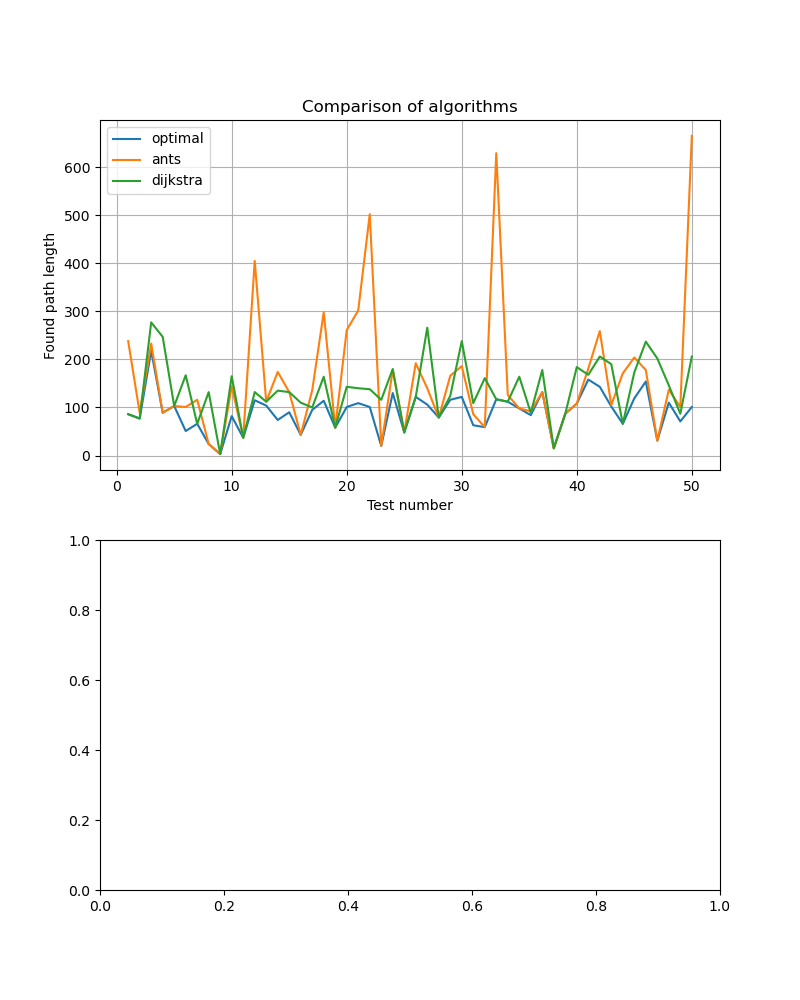
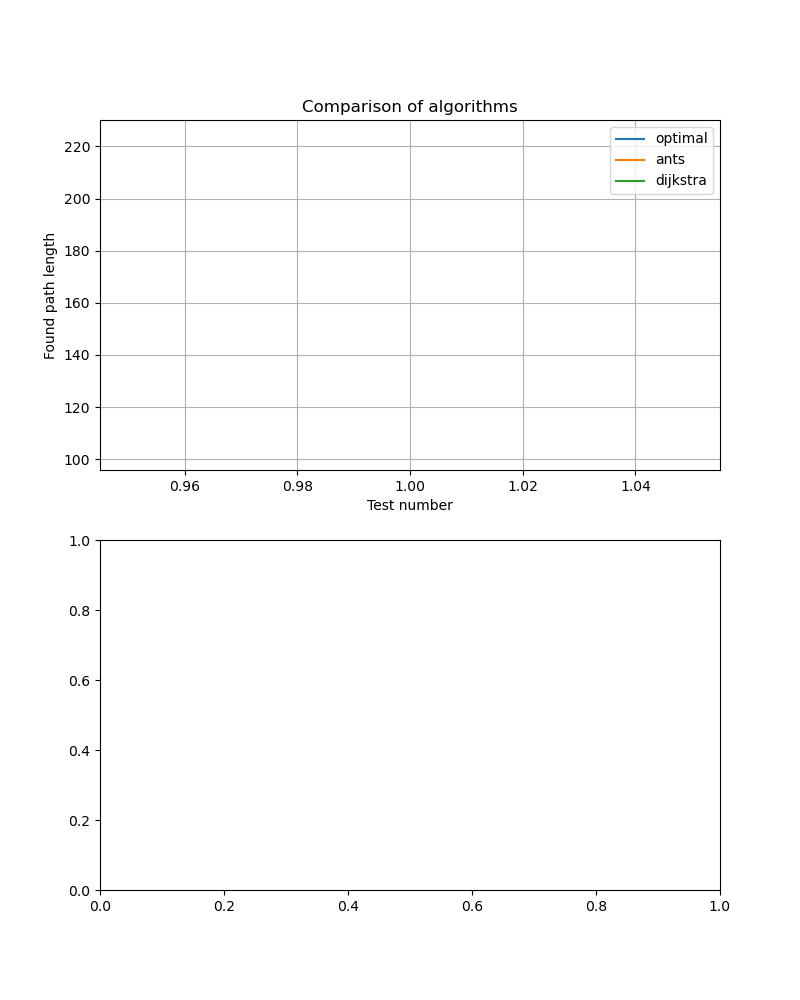
Fixed dijkstra algorithm to be optimal

diff --git a/dijkstry.py b/dijkstry.py
@@ -3,20 +3,49 @@ import networkx as nx
 import copy
 from loader import load_graph
 from matplotlib import pyplot as plt
-
+import math
 
 def path_from(G, node):
     graph = nx.Graph()
     graph.add_node(node)
 
+    path = [node]
+
     while G.nodes[node]['parent'] is not None:
         parent = G.nodes[node]['parent']
         graph.add_node(parent, parent=G.nodes[parent]['parent'], visited=False)
         graph.add_edge(parent, node)
+        path.append(parent)
         node = parent
 
     return graph
 
+
+def dijkstra(G, start_node, end_node):
+
+    q = [(0, start_node)]
+
+    reach_cost = {start_node: 0}
+
+    while len(q) > 0:
+        q.sort(key=lambda x: x[0])
+        (priority, node) = q.pop(0)
+
+        G.nodes[node]['visited'] = True
+        if node == end_node:
+            return path_from(G, end_node)
+
+        children = G.neighbors(node)
+        for child in children:
+
+            cost = reach_cost[node] + G[node][child]['distance']
+
+            if child not in reach_cost or cost < reach_cost[child]:
+                reach_cost[child] = cost
+                G.nodes[child]['parent'] = node
+                q.append((cost, child))
+
+    return None
 
 def dijkstry(G, snode, enode):
     start_tuple = (0, 0, snode)
@@ -56,7 +85,7 @@ def execute_dijkstra(graph, begin, end):
     # plt.show()
     nx.set_node_attributes(graph, None, 'parent')
     nx.set_node_attributes(graph, False, 'visited')
-    new_graph = dijkstry(graph, begin, end)
+    new_graph = dijkstra(graph, begin, end)
 
     dijkstra_path = []
     for node in new_graph.nodes:

diff --git a/main.py b/main.py
@@ -7,7 +7,7 @@ from statistics import mean, stdev
 from matplotlib import pyplot as plt
 
 NUMBER_OF_NODES = 100
-NUMBER_OF_TESTS = 50
+NUMBER_OF_TESTS = 1
 
 results = {"shortest": [], "dijkstra": [], "ants": []}
 
